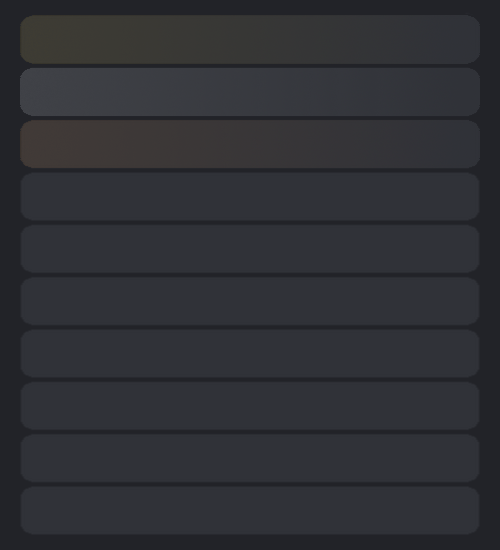
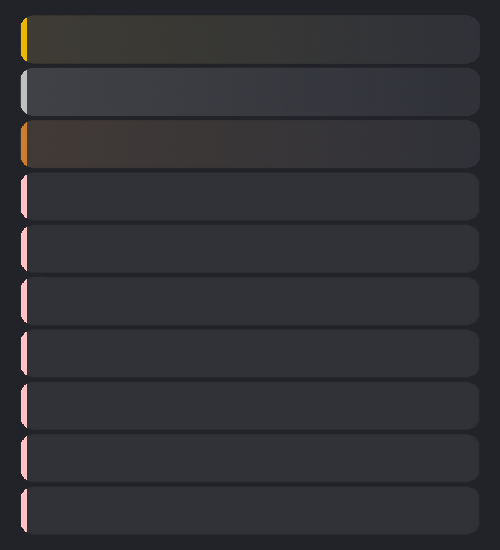
Update /user commands

Changed region(s): [[0.03, 0.0309, 0.06, 0.7727], [0.03, 0.8964, 0.06, 0.9582], [0.03, 0.8036, 0.06, 0.8655]]

diff --git a/src/events/messageCreate.js b/src/events/messageCreate.js
@@ -12,6 +12,8 @@ const EXCLUDED_CHANNELS = [
     '913840369001709608', // karuta
     '1090002887410729090', // reminders-scan
     '1147319860481765500', // dev
+    '733468367653961760', // inactive
+    '720002479005237258', // introductions
     '720004340558856222', // admin-channel
     '821763840559153174', // admin-channel
     '1302748524110418011', // admin-channel
@@ -25,17 +27,46 @@ const COOLDOWN_DURATION = 60000; // 1 minute cooldown, in milliseconds
 const MIN_XP = 15;
 const MAX_XP = 40;
 
+function isOnlyEmojis(message) {
+  // Discord custom emoji pattern <:name:id> or <a:name:id>
+  const customEmojiPattern = /<a?:\w+:\d+>/g;
+  
+  // Remove custom emojis from content
+  const contentWithoutCustomEmojis = message.content.replace(customEmojiPattern, '');
+  
+  // Check if remaining content is empty or only unicode emojis
+  return contentWithoutCustomEmojis.trim() === '' || 
+         [...contentWithoutCustomEmojis].every(char => /\p{Emoji}/u.test(char));
+}
+
+function hasGif(message) {
+  // Check attachments
+  const hasGifAttachment = message.attachments.some(attachment => 
+      attachment.contentType?.includes('image/gif') || 
+      attachment.url?.toLowerCase().endsWith('.gif')
+  );
+  
+  // Check embeds and URLs in content
+  const hasGifUrl = message.embeds?.some(embed => 
+      embed.url?.toLowerCase().endsWith('.gif')
+  ) || /https?:\/\/\S+\.gif/i.test(message.content);
+  
+  return hasGifAttachment || hasGifUrl;
+}
+
 module.exports = {
   name: Events.MessageCreate,
   async execute(message) {
     if (message.author.bot) return;
-    if (message.content.length < 3) return;
+    if (message.content.length < 5) return;
     if (EXCLUDED_CHANNELS.includes(message.channelId)) return;
+    if (isOnlyEmojis(message) || hasGif(message)) return;
 
     try {
       const userId = message.author.id;
       const now = Date.now();
 
+      // Check if the user is on cooldown
       if (cooldowns.has(userId)) {
         const expirationTime = cooldowns.get(userId) + COOLDOWN_DURATION;
         if (now < expirationTime) return;
@@ -63,7 +94,7 @@ module.exports = {
 
         try {
           await message.channel.send(
-            `${message.author.toString()} has reached level **${newLevel}**.`
+            `${message.member?.nickname || message.author.username} has reached level **${newLevel}**!`
           );
         } catch (sendError) {
           console.error("Failed to send level up message - ", sendError);

diff --git a/src/canvas/userLevelCanvas.js b/src/canvas/userLevelCanvas.js
@@ -49,29 +49,29 @@ async function generateUserLevelCanvas(targetMember, user, requiredExp, rank) {
   context.font = "18px Quicksand";
   context.fillStyle = "rgba(255, 255, 255, 0.85)";
 
-  context.fillText(`Level: ${user.level}    EXP: ${user.exp}/${requiredExp}    Rank: ${rank}`, 160, 79);
+  context.fillText(`Level: ${user.level}     EXP: ${user.exp}/${requiredExp}     Rank: ${rank}`, 160, 79);
 
   // Draw the progress bar background
   context.fillStyle = "#36383f";
   context.beginPath();
-  context.moveTo(160, 100);
-  context.arcTo(570, 100, 570, 125, 10);
-  context.arcTo(570, 125, 160, 125, 10);
-  context.arcTo(160, 125, 160, 100, 10);
-  context.arcTo(160, 100, 570, 100, 10); 
+  context.moveTo(160, 103); // 2 pixels higher
+  context.arcTo(565, 103, 565, 123, 10); // Adjusted width and 2 pixels higher
+  context.arcTo(565, 123, 160, 123, 10); // 2 pixels higher
+  context.arcTo(160, 123, 160, 103, 10); // 2 pixels higher
+  context.arcTo(160, 103, 565, 103, 10); // 2 pixels higher
   context.closePath();
   context.fill();
 
   // Draw the filled part of the progress bar
-  const progressBarWidth = (user.exp / requiredExp) * 400;
+  const progressBarWidth = (user.exp / requiredExp) * 395; // Adjusted width
 
   context.fillStyle = "#ffc3c5";
   context.beginPath();
-  context.moveTo(160, 100);
-  context.arcTo(160 + progressBarWidth, 100, 160 + progressBarWidth, 125, 10);
-  context.arcTo(160 + progressBarWidth, 125, 160, 125, 10);
-  context.arcTo(160, 125, 160, 100, 10);
-  context.arcTo(160, 100, 160 + progressBarWidth, 100, 10);
+  context.moveTo(160, 103); // 2 pixels higher
+  context.arcTo(160 + progressBarWidth, 103, 160 + progressBarWidth, 123, 10); // 2 pixels higher
+  context.arcTo(160 + progressBarWidth, 123, 160, 123, 10); // 2 pixels higher
+  context.arcTo(160, 123, 160, 103, 10); // 2 pixels higher
+  context.arcTo(160, 103, 160 + progressBarWidth, 103, 10); // 2 pixels higher
   context.closePath();
   context.fill();
 

diff --git a/src/canvas/userRankingsCanvas.js b/src/canvas/userRankingsCanvas.js
@@ -22,14 +22,15 @@ async function generateUserRankingsCanvas(interaction, users) {
     const avatar = await loadImage(await body.arrayBuffer());
 
     // Position values
-    const x = 80;
+    const x = 85;
     const y = 22 + i * 52.4;
     const size = 35;
 
     // Draw the ranking number
     context.font = "18px Quicksand";
     context.fillStyle = "rgba(255, 255, 255, 0.85)";
-    context.fillText(`#${i + 1}`, 35, y + size / 2 + 7);
+    
+    context.fillText(`#${i + 1}`, 40, y + size / 2 + 7);
 
     context.save();
     context.beginPath();
@@ -46,11 +47,11 @@ async function generateUserRankingsCanvas(interaction, users) {
 
     // Draw the user's level and exp on the same line
     context.font = "16px Quicksand";
-    context.fillStyle = "rgba(255, 255, 255, 0.85)";
+    context.fillStyle = "#ffffff";
     context.fillText(`Level:`, canvas.width - 200, y + size / 2 + 7);
     context.fillStyle = "#ffc3c5";
     context.fillText(`${user.level}`, canvas.width - 153, y + size / 2 + 7);
-    context.fillStyle = "rgba(255, 255, 255, 0.85)";
+    context.fillStyle = "#ffffff";
     context.fillText(`EXP:`, canvas.width - 115, y + size / 2 + 7);
     context.fillStyle = "#ffc3c5";
     context.fillText(`${user.exp}`, canvas.width - 78, y + size / 2 + 7);

diff --git a/src/commands/user/level.js b/src/commands/user/level.js
@@ -32,6 +32,7 @@ module.exports = {
       await interaction.reply({ files: [attachment] });
 
     } catch (error) {
+      console.error(error);
       await interaction.reply("Error - Could not retrieve user information");
     }
   },
